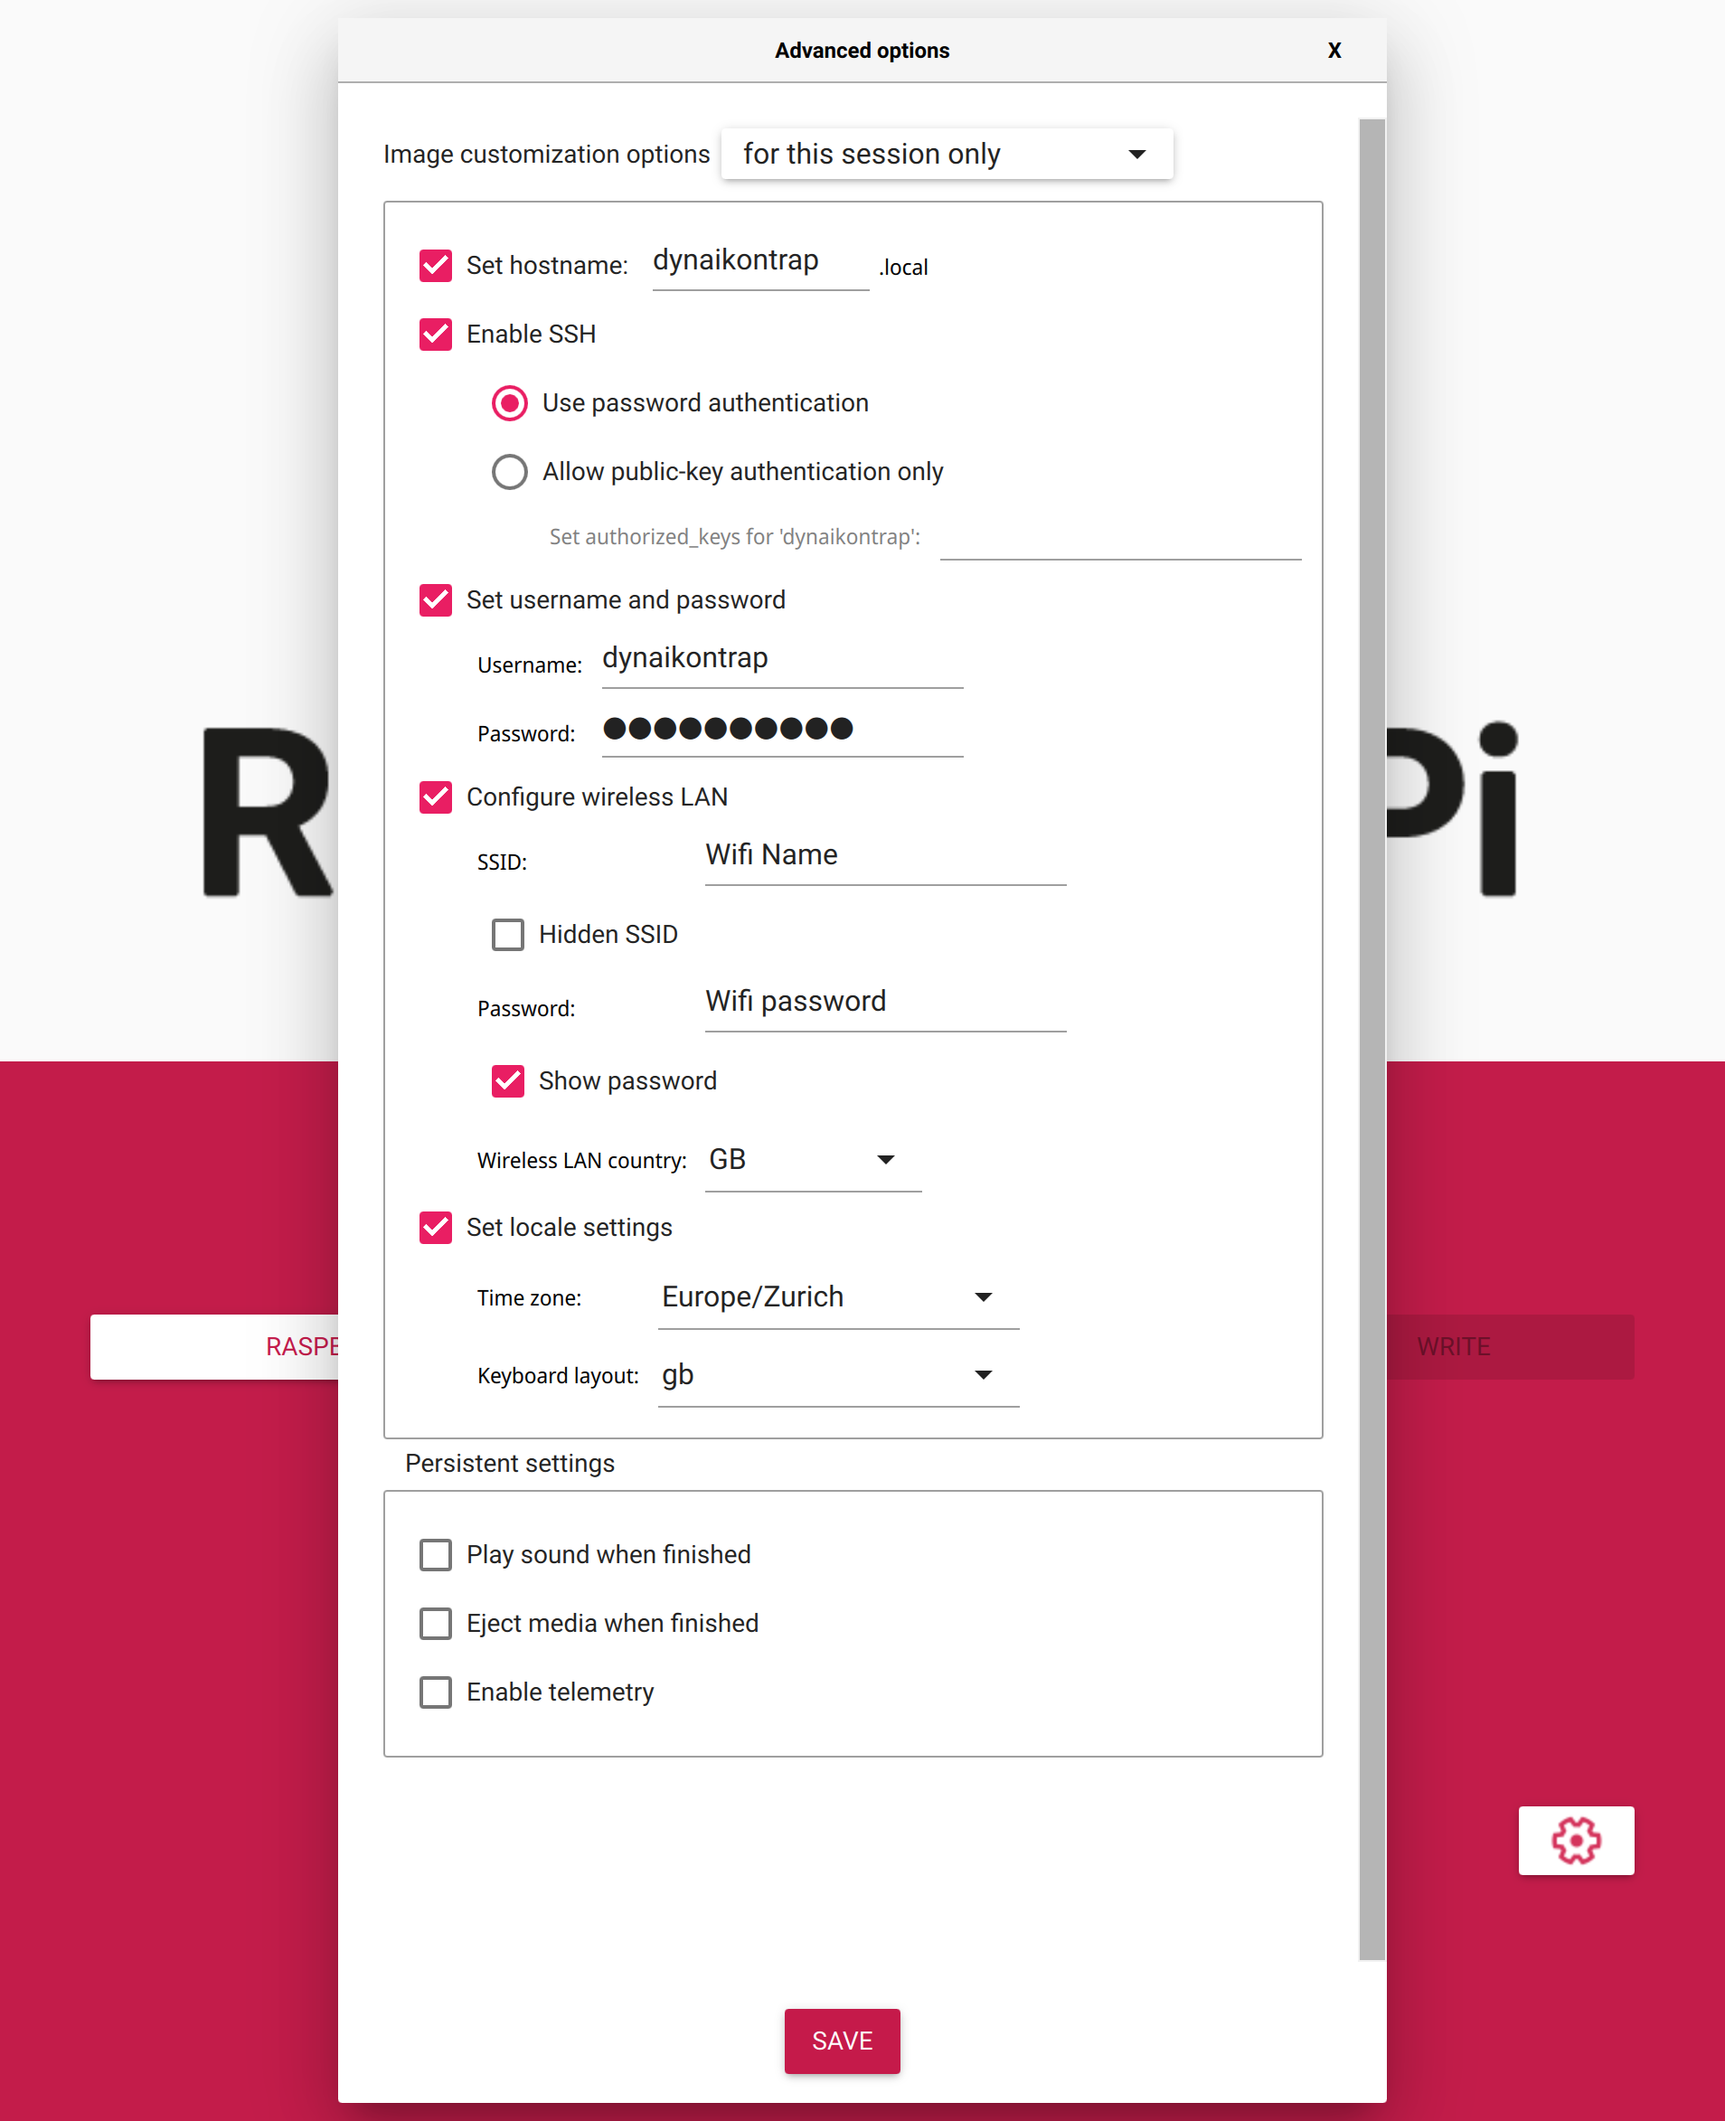
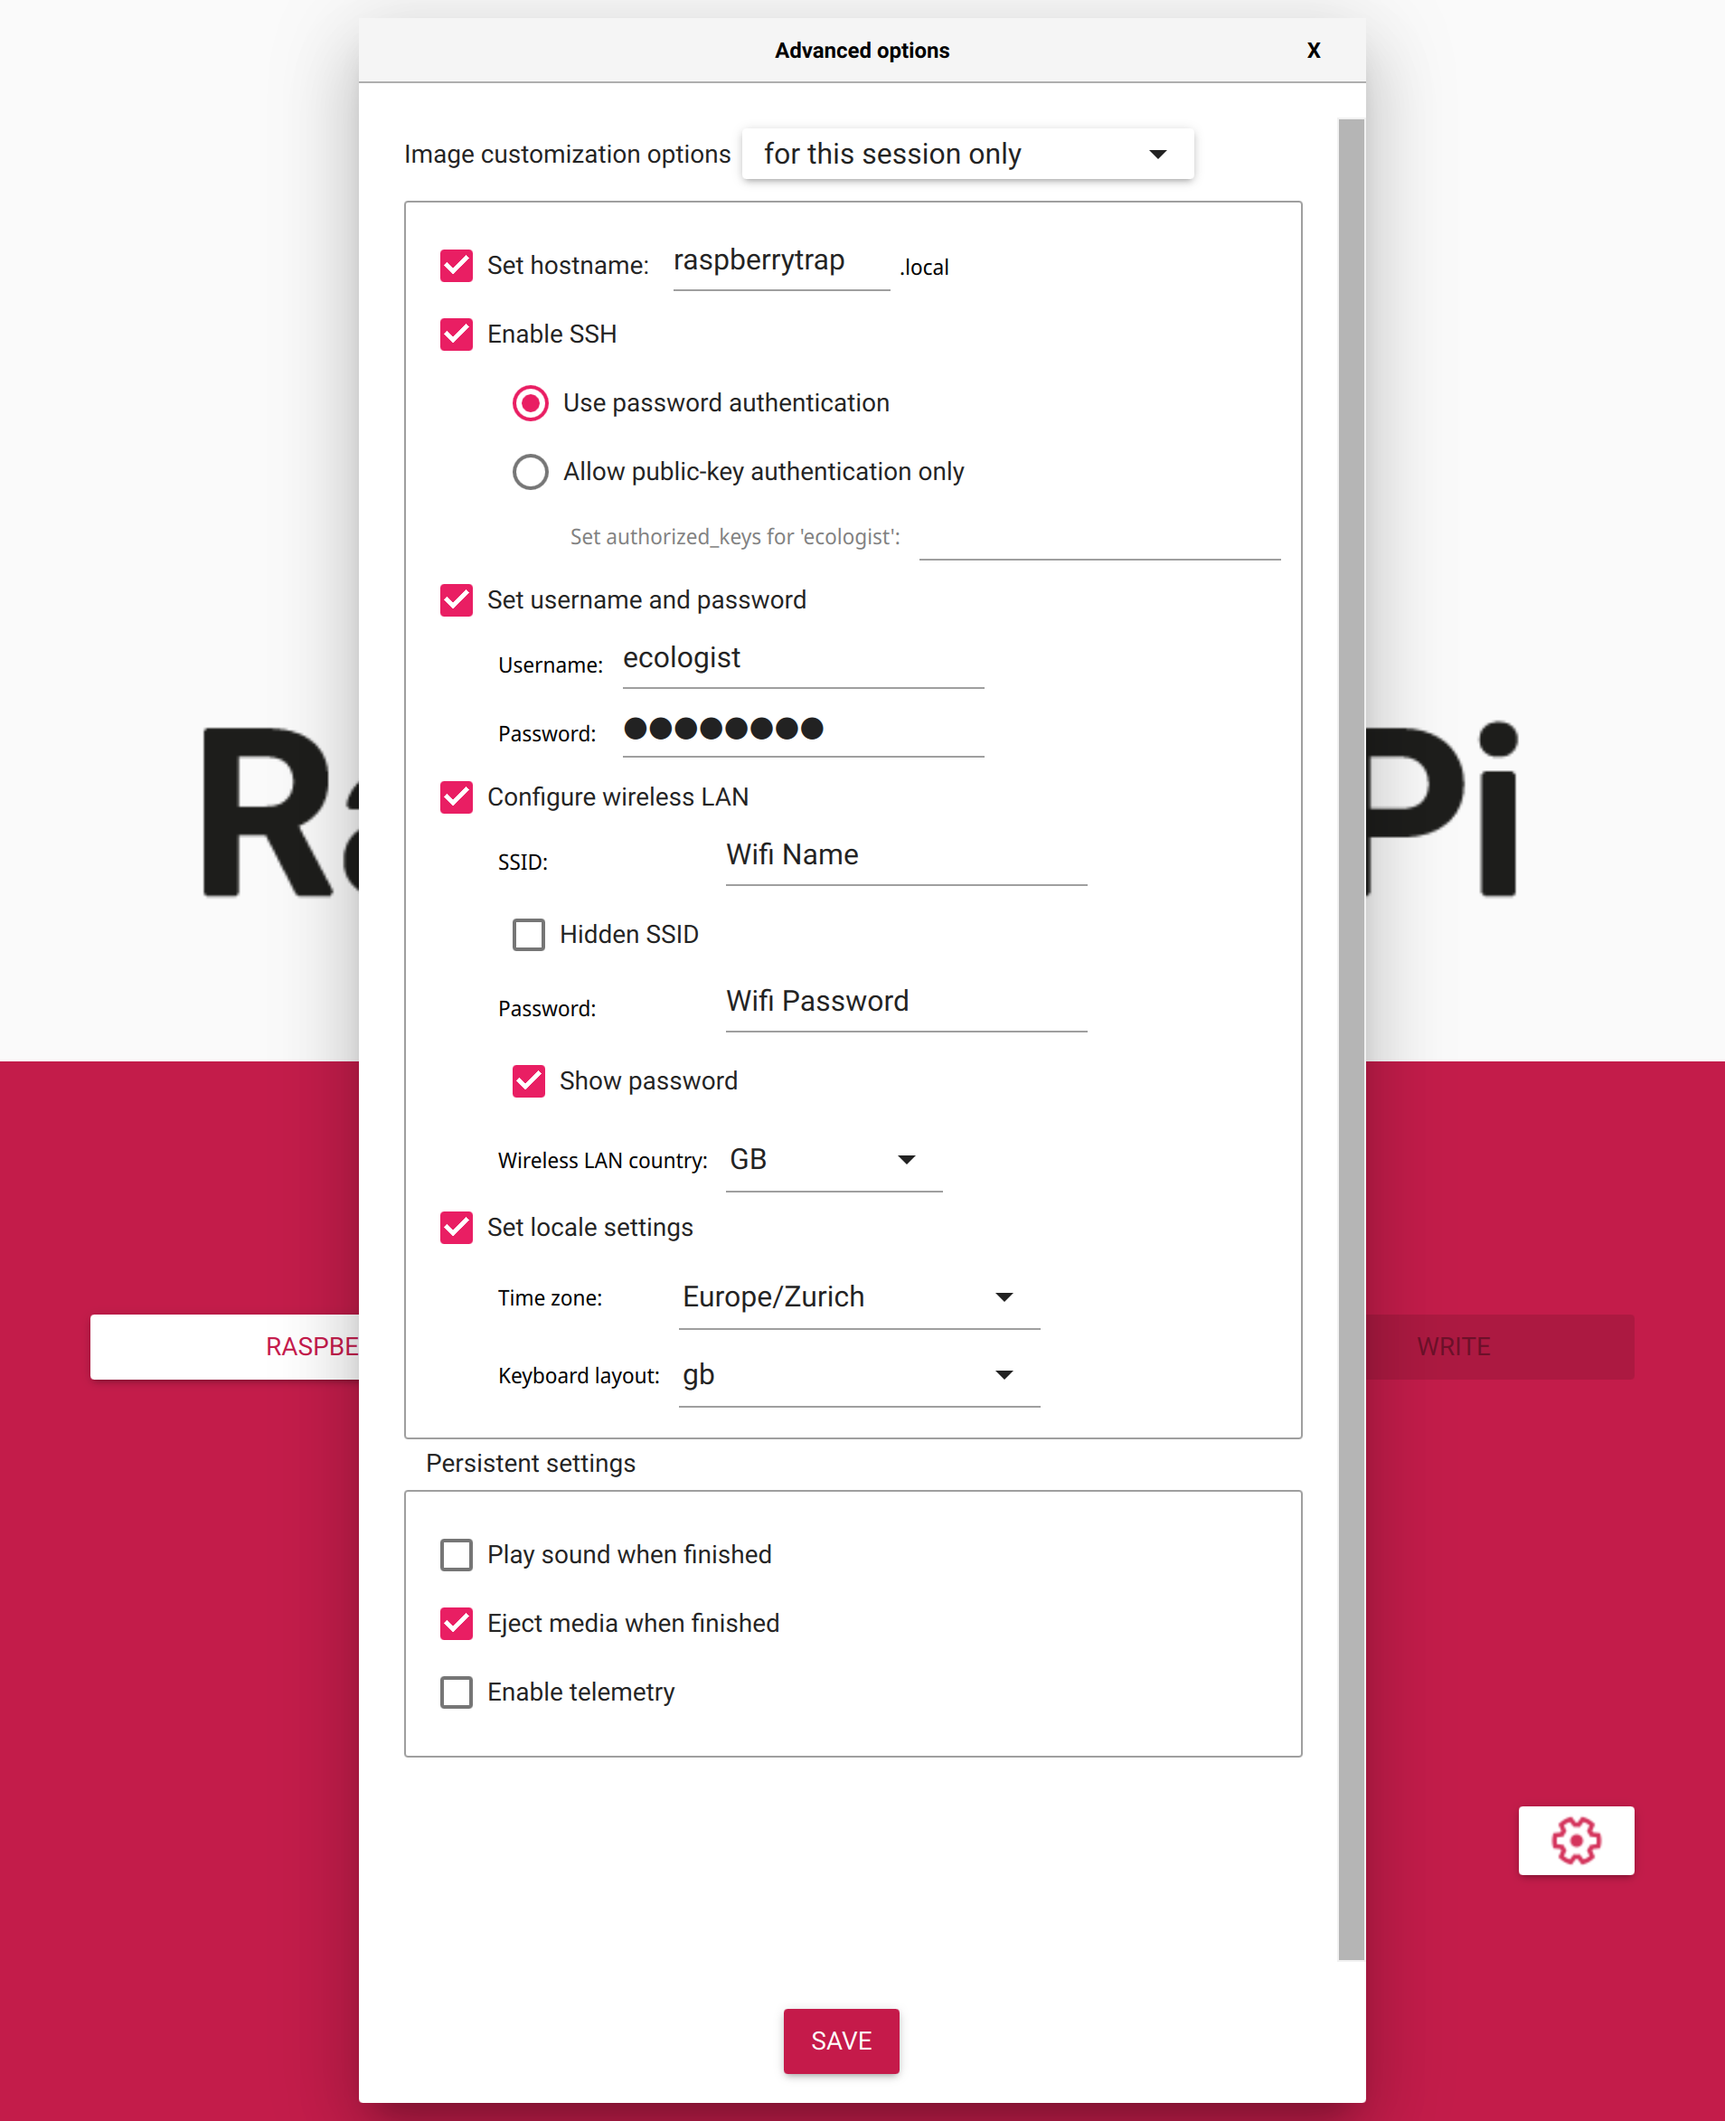
[docs] Clearer separation between username and hostname
Also, use correct .local hostname configuration.

Changed region(s): [[0.1855, 0.0311, 0.5875, 0.9957], [0.7731, 0.0311, 0.804, 0.9957]]

diff --git a/docs/source/preparing-the-raspberry-pi.rst b/docs/source/preparing-the-raspberry-pi.rst
@@ -356,14 +356,14 @@ different tool to flash SD cards, feel free to use that instead.
 
    .. _sshcredentials:
 
-   * **Set hostname**. This is what your Raspberry Pi will be called on your local
-     network. We have called it "dynaikontrap" in our example. Whilst it is
-     possible to put spaces in the hostname, we recommend *not* to do this.
-     Instead perhaps use a hyphen.
+   * **Set hostname**. This is what your Raspberry Pi will be called on your
+     local network. We have called it ``raspberrytrap`` in our example. Whilst
+     it is possible to put spaces in the hostname, we recommend *not* to do
+     this.  Instead perhaps use a hyphen.
    * **Enable SSH**. This will allow you to log into your Raspberry Pi over the
      network. Select "Use password authentication".
    * **Set username and password**. These will be the credentials you will use
-     to log into your Raspberry Pi. Set a reasonable username and password.
+     to log into your Raspberry Pi. We have chosen the username ``ecologist``.
      Whilst it is possible to put spaces in the username, we recommend *not* to
      do this; of course your password may have arbitrary characters.
    * **Configure wireless LAN**. This is necessary, if you are not going wired
@@ -413,7 +413,7 @@ In :ref:`our example <sshcredentials>` it would be
 
 .. code:: sh
 
-    ssh dynaikontrap@dynaikontrap
+    ssh ecologist@raspberrytrap.local
 
 Once logged in, you will want to update the Raspberry Pi. Do this with
 
@@ -555,13 +555,13 @@ computer, by executing
 
 .. code:: sh
 
-    scp <username>@<hostname>:/tmp/test.jpg test.jpg
+    scp <username>@<hostname>.local:/tmp/test.jpg test.jpg
 
 e.g.
 
 .. code:: sh
 
-    scp dynaikontrap@dynaikontrap:/tmp/test.jpg test.jpg
+    scp ecologist@raspberrytrap.local:/tmp/test.jpg test.jpg
 
 on your computer/tablet/mobile phone. Then you can open the file ``test.jpg`` on
 your local device to check whether the camera could successfully take a picture

diff --git a/docs/source/running-dynaikontrap.rst b/docs/source/running-dynaikontrap.rst
@@ -139,7 +139,13 @@ over SSH
 
 .. code:: sh
 
-   scp -a pi@dynaikontrap.local:~/dynaikontrap/output/ ./
+   scp -a <username>@<hostname>.local:~/dynaikontrap/output/ ./
+
+e.g.
+
+.. code:: sh
+
+   scp -a ecologist@raspberrytrap.local:~/dynaikontrap/output/ ./
 
 copies all files from the default video output directory onto the current
 directory on your computer.
@@ -159,7 +165,7 @@ On ``dynaikontrap`` you could then run:
 
 .. code:: sh
 
-   sshfs ~/videos pi@server.local:~
+   sshfs ~/videos ecologist@raspberrytrap.local:~
 
 to automatically save all files from ``dynaikontrap``'s output to the
 ``server``'s home directory. Note that ``sshfs`` may not be installed, but you
